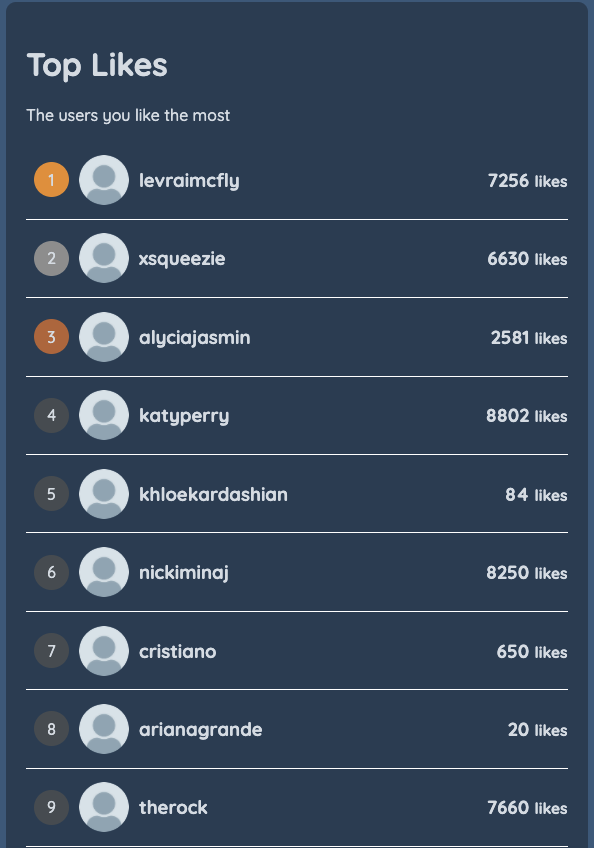
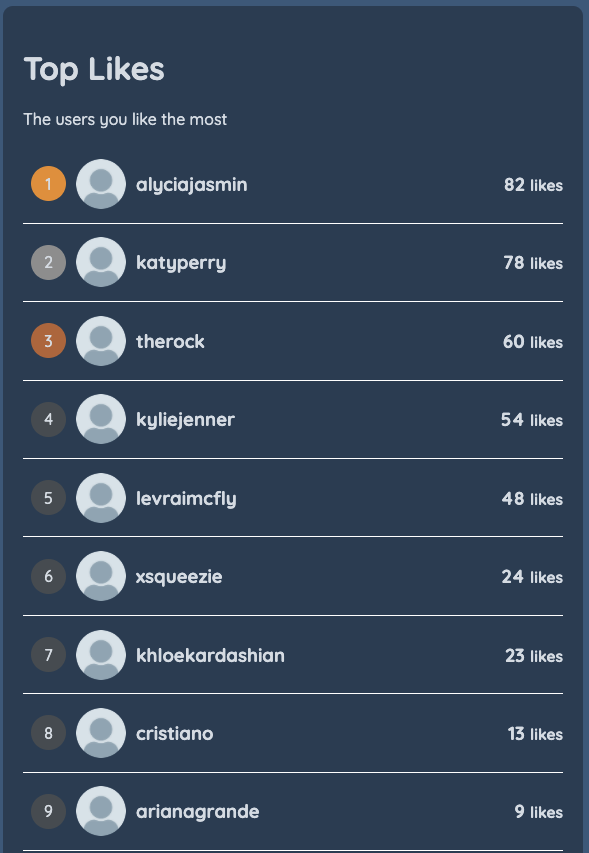
:pencil: Update demo screenshots

diff --git a/src/app/store.js b/src/app/store.js
@@ -12,10 +12,10 @@ if (window.location.href.includes('demo')) {
         likeCount: 300,
         likeCountPerDay: 12,
         topLikes: ['levraimcfly', 'xsqueezie', 'alyciajasmin', 'katyperry', 'khloekardashian', 'nickiminaj', 'cristiano', 'arianagrande', 'therock', 'kyliejenner'].map((name) => ({
-            count: Math.ceil(Math.random() * 10000) + 1,
+            count: Math.ceil(Math.random() * 100) + 1,
             username: name,
             avatarURL: 'https://turtlegirltravel.com/wp-content/uploads/2020/11/profile.png'
-        })),
+        })).sort((a, b) => b.count - a.count),
         messageCount: 3000,
         messageCountPerDay: 20,
         commentCount: 100,

diff --git a/src/components/LeaderboardItem.svelte b/src/components/LeaderboardItem.svelte
@@ -13,7 +13,7 @@
         <h3 class="top-name">{username}</h3>
     </div>
     <div class="top-messages">
-        <h3>{count} <small>{type}</small></h3>
+        <h3>{count.toLocaleString('en-US')} <small>{type}</small></h3>
     </div>
 </div>
 
